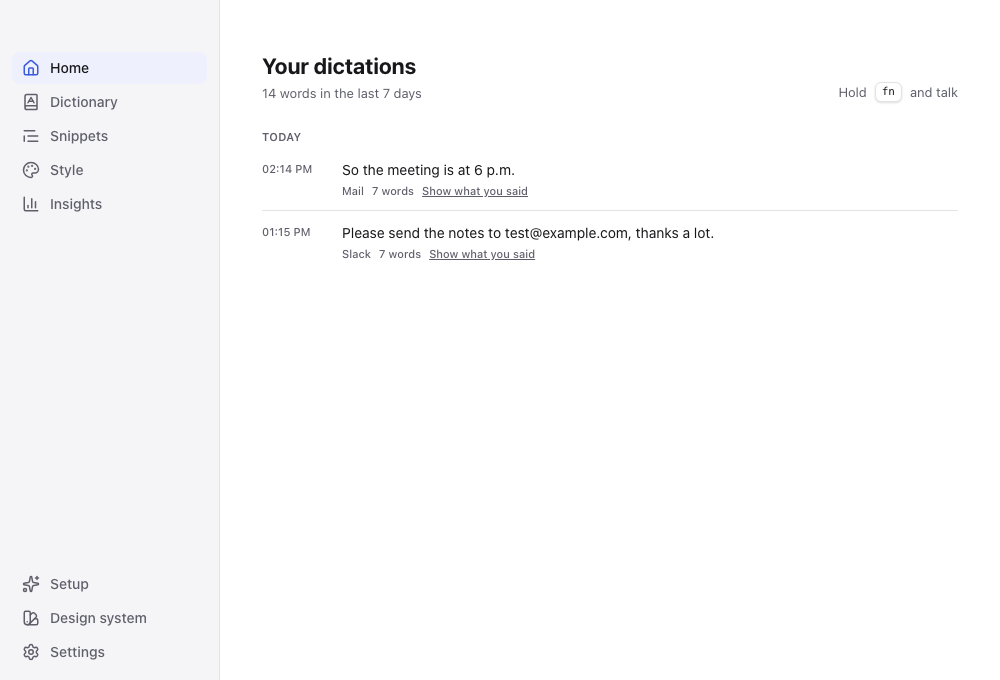
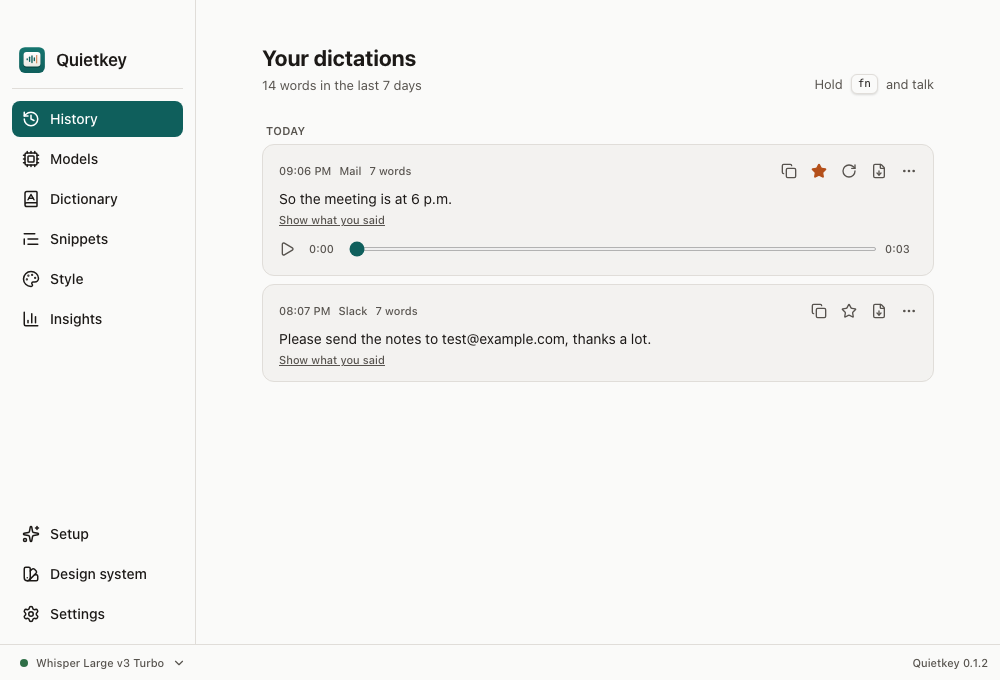
README: new screenshots, Arabic model, replayable history

diff --git a/README.md b/README.md
@@ -36,12 +36,14 @@ That's it. No account, no subscription, no word limit.
 - **Your first words are kept.** The microphone stays ready for 20 seconds after a dictation, so the next one starts the instant you press the key.
 - **Names come out right.** Select a misheard word in your history and choose **Add to dictionary**. Quietkey spells it your way from then on.
 - **Fast on any Mac.** Parakeet v3 is the default: a 40 second dictation is text in about 1.5 seconds, a short one in under 0.2 s. It covers English, German and 23 more European languages and uses about 230 MB of memory.
-- **Whisper when you need it.** For Arabic and 90 more languages, or dictionary words as spelling hints, pick a Whisper model: Base (180 MB of memory), Small (350 MB) or Large v3 Turbo (700 MB).
+- **Whisper when you need it.** For 90 more languages, or dictionary words as spelling hints, pick a Whisper model: Base (180 MB of memory), Small (350 MB) or Large v3 Turbo (700 MB).
+- **Arabic.** Cohere Transcribe Arabic (1.6 GB download) handles dialects and Arabic mixed with English. The Models page grades every model for English, German and Arabic.
+- **History you can replay.** Each dictation keeps its recording: play it, transcribe it again with another model, star it, or save it to a file.
 - **Cleans up as you talk, offline.** Removes "um", repeated words and corrections like "at 5, actually 6". Say "new line" or "new paragraph".
 - **Never pastes the wrong thing.** Your clipboard is put back after every paste, and `⌃⌘V` pastes your last dictation again.
 
 <p align="center">
-  <img src="assets/screenshot-setup.png" alt="Setup: choose Groq or a local model" width="620">
+  <img src="assets/screenshot-models.png" alt="Models: each one graded for English, German and Arabic, with speed and size" width="620">
 </p>
 
 ## Features
